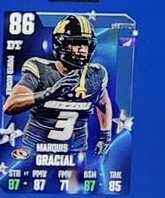
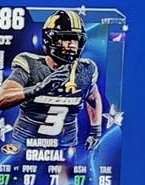
Tighten remaining Team Manager card crops

diff --git a/src/operation_pancake/c3po_screenshot_art.py b/src/operation_pancake/c3po_screenshot_art.py
@@ -39,10 +39,10 @@ def _scaled_box(box, size):
     sx, sy = size[0] / BASE_SIZE[0], size[1] / BASE_SIZE[1]
     left, top, right, bottom = box
     return (
-        max(0, round((left - 10) * sx)),
-        max(0, round((top - 5) * sy)),
-        min(size[0], round((right + 10) * sx)),
-        min(size[1], round((bottom + 8) * sy)),
+        max(0, round(left * sx)),
+        max(0, round(top * sy)),
+        min(size[0], round(right * sx)),
+        min(size[1], round(bottom * sy)),
     )
 
 
